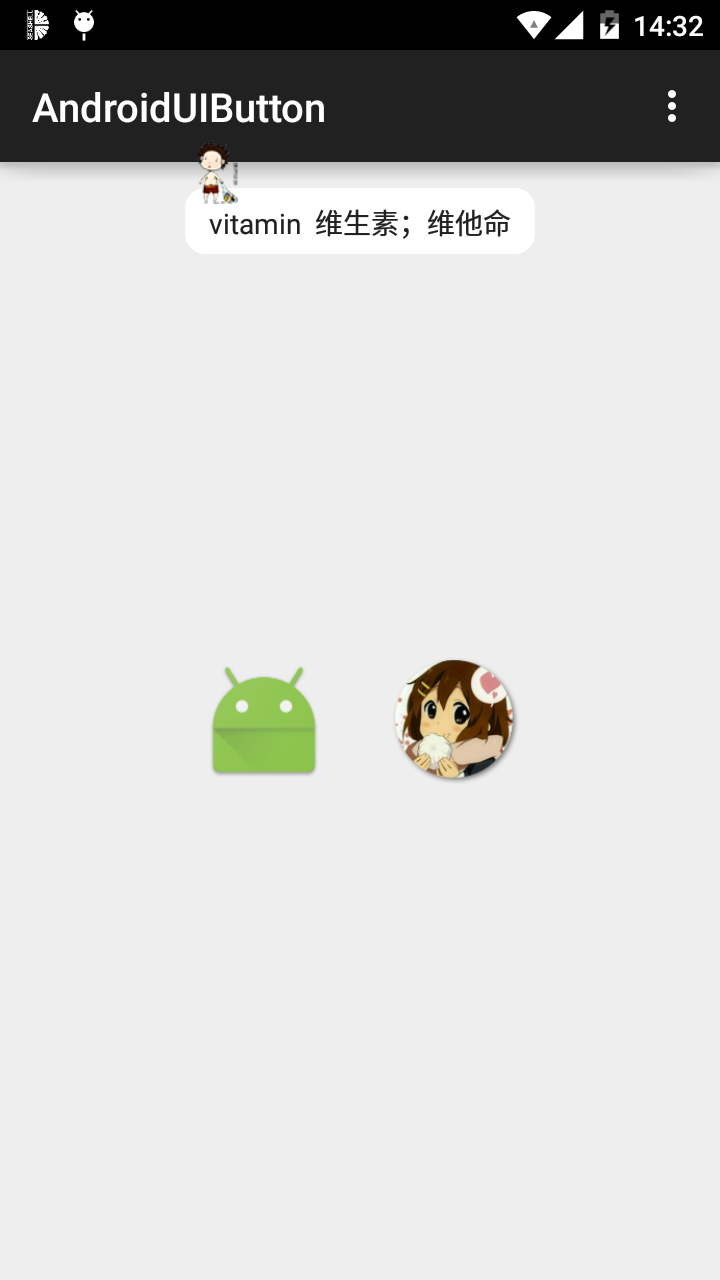
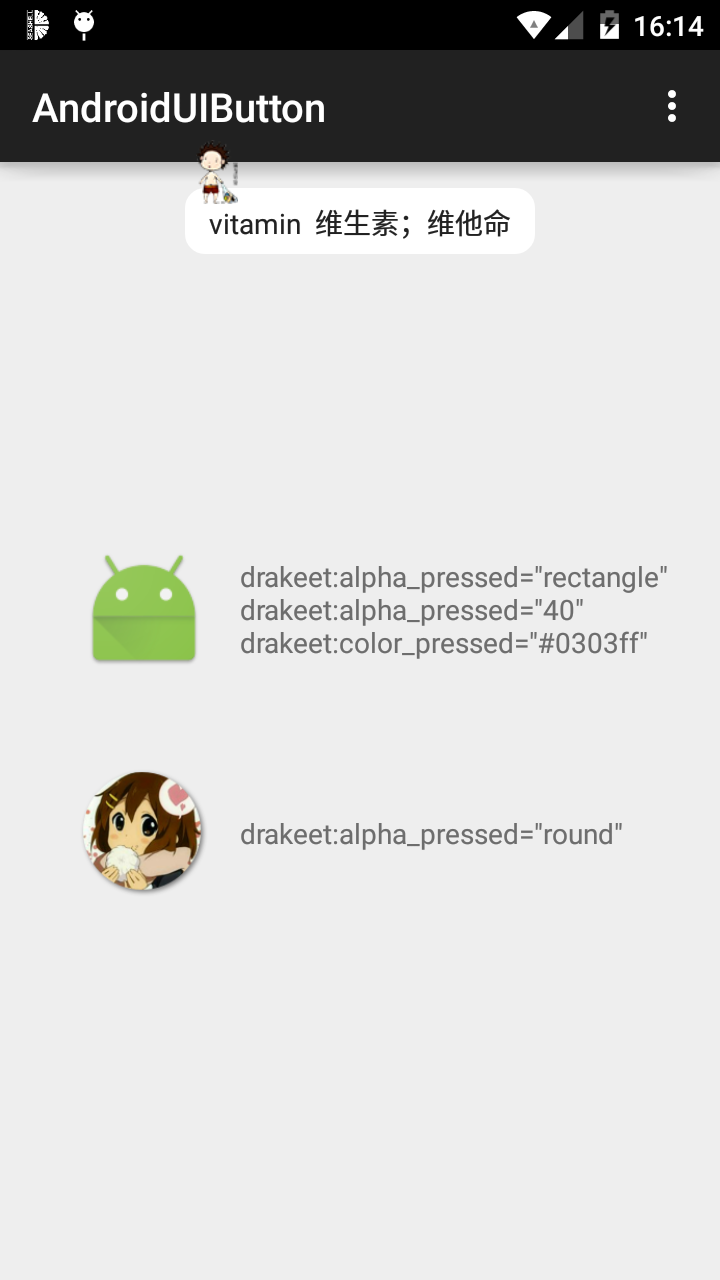
small fix

diff --git a/library/src/main/java/me/drakeet/library/UIButton.java b/library/src/main/java/me/drakeet/library/UIButton.java
@@ -42,6 +42,7 @@ public class UIButton extends Button {
 
     private int mPressedColor;
     private Paint mPaint;
+    private int mShapeType;
 
     public UIButton(Context context) {
         super(context);
@@ -63,6 +64,7 @@ public class UIButton extends Button {
         final TypedArray typedArray = context.obtainStyledAttributes(attrs, R.styleable.UIButton);
         mPressedColor = typedArray.getColor(R.styleable.UIButton_color_pressed, getResources().getColor(R.color.color_pressed));
         PAINT_ALPHA = typedArray.getInteger(R.styleable.UIButton_alpha_pressed, PAINT_ALPHA);
+        mShapeType = typedArray.getInt(R.styleable.UIButton_shape_type, 1);
         typedArray.recycle();
         mPaint = new Paint();
         mPaint.setStyle(Paint.Style.FILL);
@@ -84,7 +86,11 @@ public class UIButton extends Button {
     protected void onDraw(Canvas canvas) {
         super.onDraw(canvas);
         if (mPaint == null) return;
-        canvas.drawRect(0, 0, WIDTH, HEIGHT, mPaint);
+        if (mShapeType == 0) {
+            canvas.drawCircle(WIDTH/2, HEIGHT/2, WIDTH/2.1038f, mPaint);
+        } else {
+            canvas.drawRect(0, 0, WIDTH, HEIGHT, mPaint);
+        }
     }
 
     @Override

diff --git a/README.md b/README.md
@@ -45,7 +45,8 @@ all right,
     android:layout_width="64dp"
     android:layout_height="64dp"
     android:layout_margin="16dp"
-    android:background="@mipmap/ic_launcher"/>
+    drakeet:shape_type="round"
+    android:background="@mipmap/avatar"/>
 ```
 
 ## BUG
